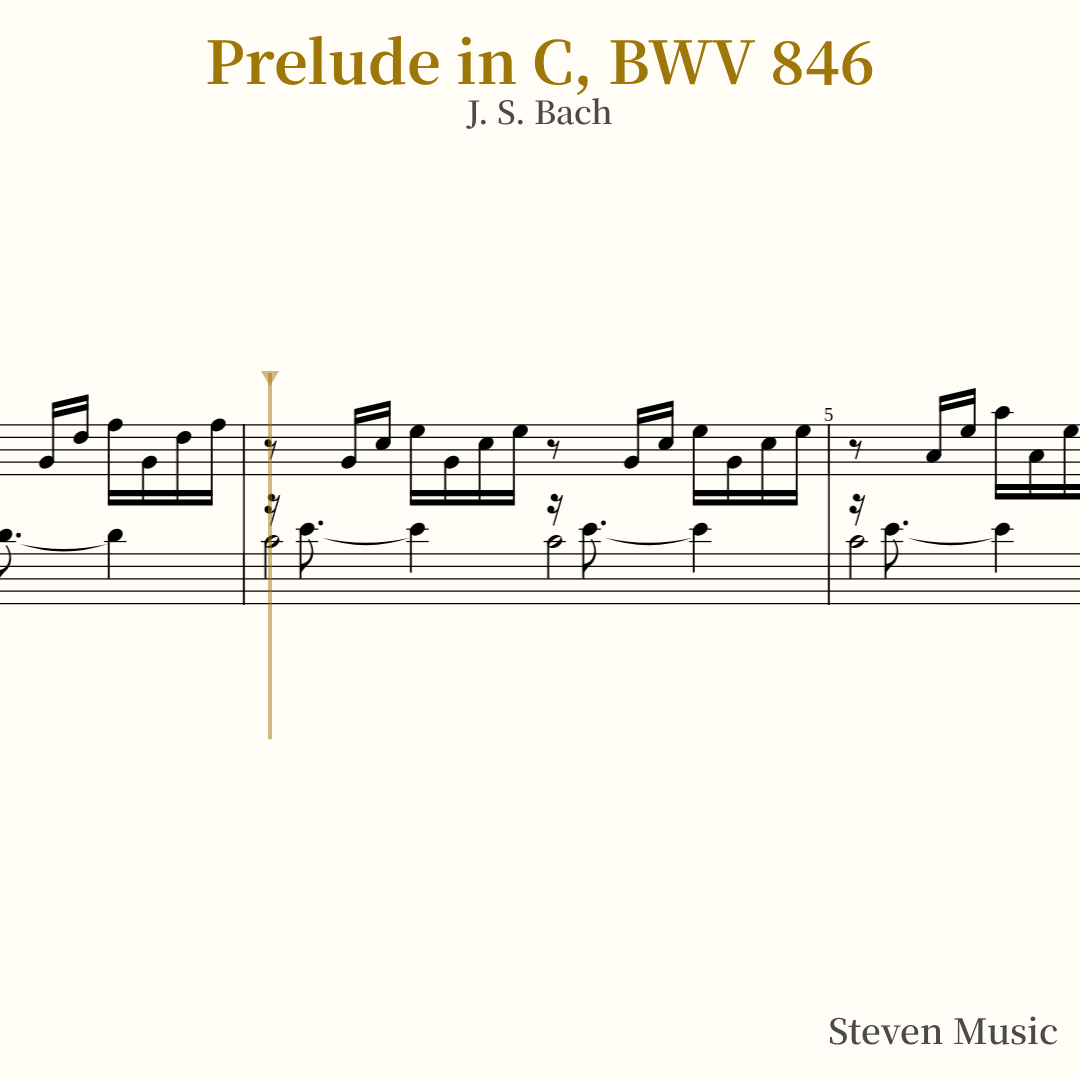
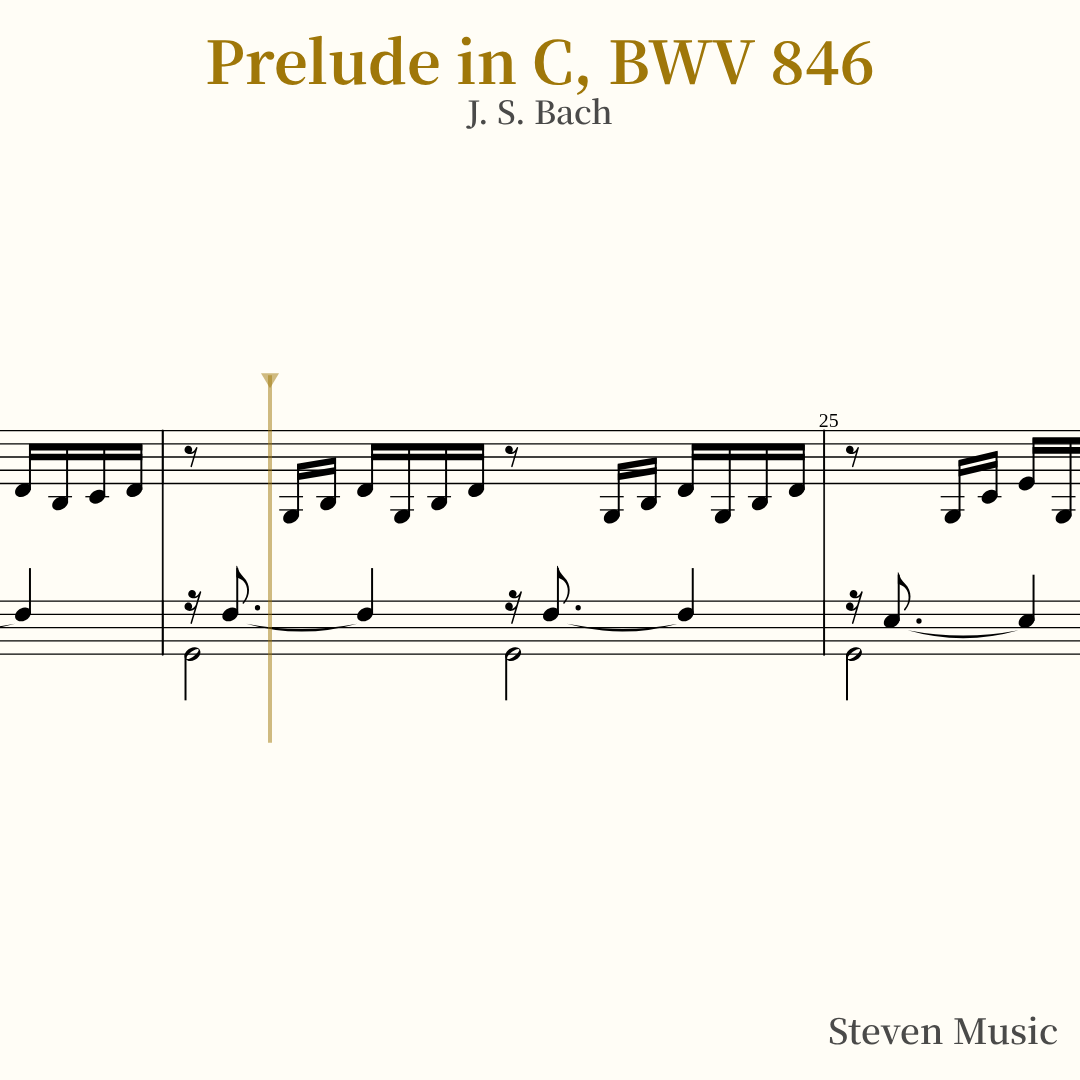
Promo: fix Bach BWV846 LH voice stems/rests in 1:1 export frame
Claude-Session: https://claude.ai/code/session_01XMEXKfnCC2JVpUX2wQrpCB

Changed region(s): [[0.0, 0.3361, 1.0, 0.6111]]

diff --git a/README.md b/README.md
@@ -27,3 +27,4 @@
 
 ## 改版紀錄
 - 2026-10-02：第 03 段「真實樂器音色」拿掉民謠吉他、古典吉他（重新找過仍沒有每個音都有錄音、可商用、品質夠好的木吉他音色；app 裡吉他也維持停用），只留鋼琴、鼓組兩張卡。依 app 最新版重新產生匯出示意圖並重新輸出影片（播放軸半透明、鼓譜匯出純白底、播放軸長度依最高最低音）。
+- 2026-10-02：逐張檢查影片截圖的記譜。巴哈 BWV846 原檔左手兩個聲部符桿都寫朝下、音符擠在一起，修正 `scores/bach_bwv846.mxl`：左手較高的聲部朝上、較低的朝下，上聲部的十六分休止符放在上方；1:1 匯出示意改從第 24 小節附近（77 秒）開始（開頭的 E4 在低音譜號上方兩條加線，OSMD 畫朝上符桿會斷開）。
